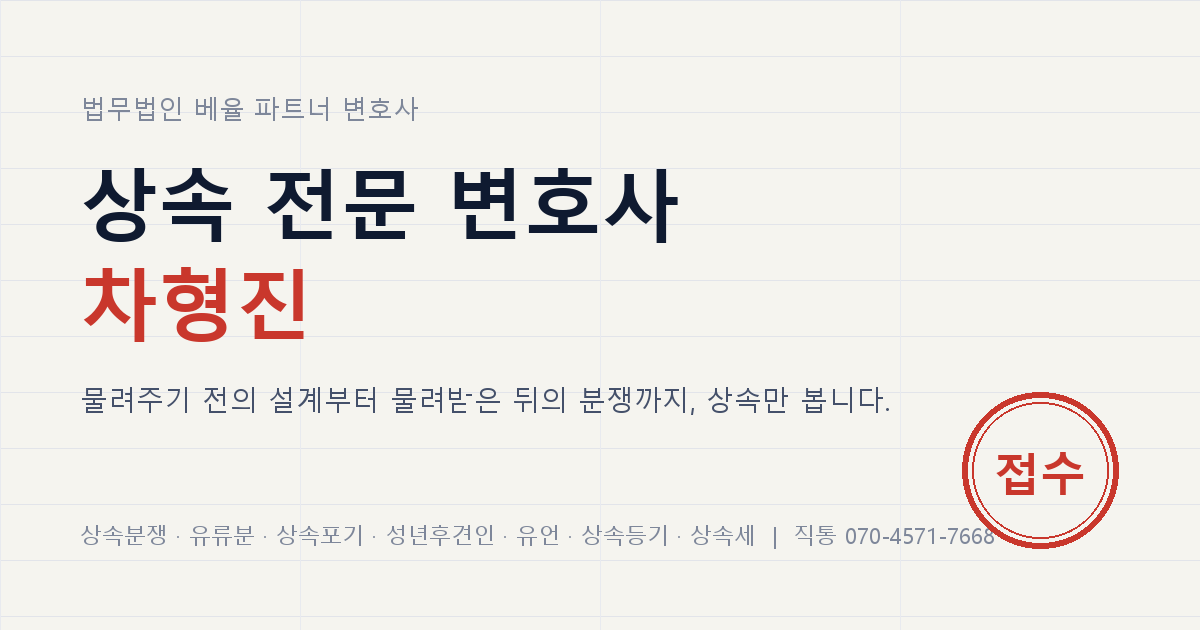
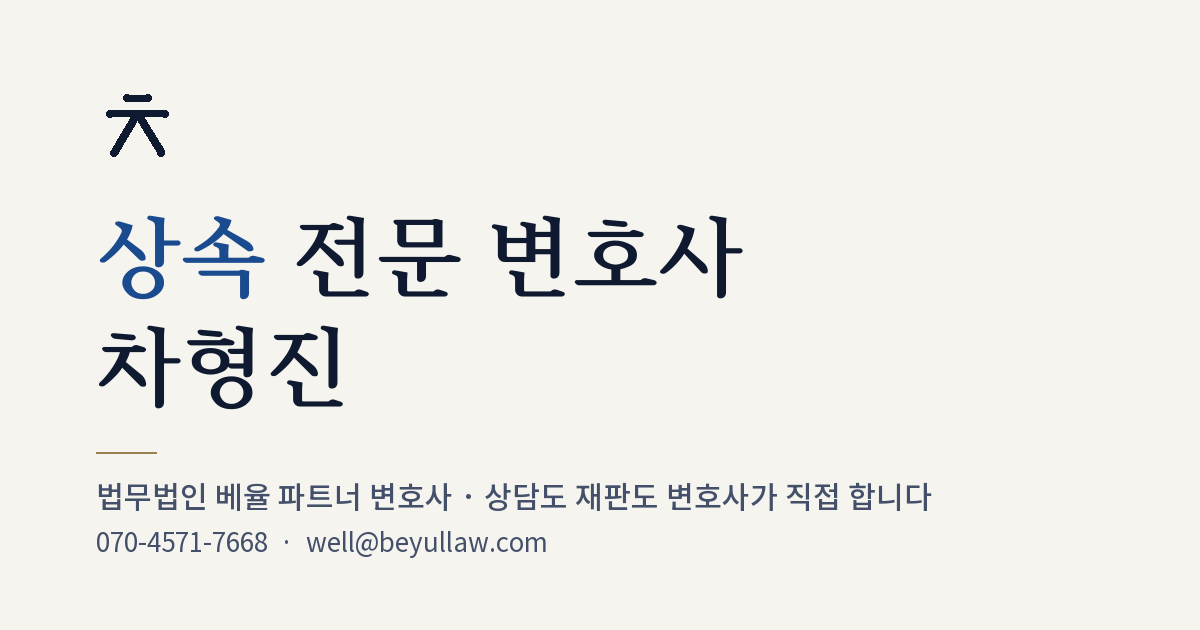
로고·디자인 정리: 빨간 도장 마크를 가는 선 ㅊ 마크로, 인주색을 먹빛 파랑(버튼)+놋쇠 가는 선(라벨·밑줄)으로, 【 】 라벨·접수 도장·그라데이션 띠 제거, 파비콘·OG 이미지 재생성

diff --git a/src/styles/global.css b/src/styles/global.css
@@ -14,10 +14,15 @@
   --ink-3: #7E879A;
   --rule: #CFD3DC;
   --rule-2: #E2E4EA;
-  --seal: #C9372C;
-  --seal-soft: #F8E8E5;
-  --bronze: #8A6A2B;
-  --bronze-soft: #F2ECDC;
+  /* 2026.10.19 인주(빨강) 도장 콘셉트 정리 → 먹빛 파랑 + 놋쇠 가는 선 */
+  --accent: #1B4B8F;
+  --accent-2: #153D77;
+  --brass: #9A7F52;
+  --brass-soft: #F1ECE1;
+  --seal: var(--accent);
+  --seal-soft: #E7EEF9;
+  --bronze: var(--brass);
+  --bronze-soft: var(--brass-soft);
   --focus: #9DB4E8;
   --display: 'Noto Serif KR', 'Nanum Myeongjo', 'Apple SD Gothic Neo', serif;
   --body: 'Pretendard Variable', Pretendard, 'Noto Sans KR', 'Apple SD Gothic Neo', 'Malgun Gothic', sans-serif;
@@ -78,38 +83,38 @@ html.anim .rv.in { opacity: 1; transform: none; }
   text-transform: uppercase;
 }
 .gu {
-  /* 【 갑구 】 식 구(區) 라벨 */
-  font-family: var(--display);
-  font-size: 13px;
-  letter-spacing: 0.22em;
-  color: var(--ink-2);
-  font-weight: 500;
+  /* 구(區) 라벨: 놋쇠 가는 선 + 작은 글자 */
+  font-family: var(--body);
+  font-size: 12px;
+  letter-spacing: 0.18em;
+  color: var(--ink-3);
+  font-weight: 600;
+  display: flex; align-items: center; gap: 10px;
 }
-.gu::before { content: '【 '; color: var(--ink-3); }
-.gu::after { content: ' 】'; color: var(--ink-3); }
-.gu small { font-family: var(--body); letter-spacing: 0.06em; color: var(--ink-3); font-size: 12px; margin-left: 10px; }
+.gu::before { content: ""; display: inline-block; width: 22px; height: 1px; background: var(--brass); flex: none; }
+.gu small { letter-spacing: 0.06em; color: var(--ink-3); font-size: 12px; font-weight: 400; }
 
 .sec { padding-block: clamp(72px, 10vw, 136px); position: relative; }
 .sec + .sec { border-top: 1px solid var(--rule); }
 .sec-head { display: grid; gap: 18px; max-width: 760px; margin-bottom: clamp(36px, 5vw, 64px); }
-.sec-head h2 { font-size: clamp(26px, 3.2vw, 40px); font-weight: 900; line-height: 1.3; }
+.sec-head h2 { font-size: clamp(26px, 3.2vw, 40px); font-weight: 700; line-height: 1.3; }
 .sec-head p { color: var(--ink-2); font-size: 17px; max-width: 38em; line-height: 1.85; }
 .band-ink { background: var(--ink); color: #F2F3F6; }
-.band-ink .gu, .band-ink .gu::before, .band-ink .gu::after { color: #B7C0D6; }
+.band-ink .gu { color: #B7C0D6; }
 .band-ink .sec-head p { color: #C3CAD9; }
 .band-paper { background: var(--paper-2); }
 
 /* ---------- 버튼 ---------- */
 .btn {
   display: inline-flex; align-items: center; justify-content: center; gap: 8px;
-  padding: 14px 22px; border-radius: 3px;
+  padding: 14px 22px; border-radius: 4px;
   font-family: var(--body); font-weight: 600; font-size: 15px; line-height: 1.2;
   text-decoration: none; border: 1px solid transparent; cursor: pointer;
   transition: transform .15s ease, background .15s ease, color .15s ease;
 }
 .btn:hover { transform: translateY(-1px); }
-.btn-seal { background: var(--seal); color: #fff; }
-.btn-seal:hover { background: #B32F25; }
+.btn-seal { background: var(--accent); color: #fff; }
+.btn-seal:hover { background: var(--accent-2); }
 .btn-ink { background: var(--ink); color: #fff; }
 .btn-ghost { background: transparent; color: var(--ink); border-color: var(--ink); }
 .btn-paper { background: var(--paper); color: var(--ink); border-color: var(--rule); }
@@ -119,20 +124,16 @@ html.anim .rv.in { opacity: 1; transform: none; }
 /* ---------- 상단 ---------- */
 .topbar {
   position: sticky; top: env(safe-area-inset-top, 0px); z-index: 50;
-  padding-top: 3px;
+  padding-top: 2px;
   background: rgba(245,244,239,.92); backdrop-filter: saturate(1.2) blur(10px);
   border-bottom: 1px solid var(--rule);
 }
 .topbar .wrap { display: flex; align-items: center; justify-content: space-between; gap: 16px; height: 70px; }
 .brand { display: flex; align-items: center; gap: 12px; text-decoration: none; }
-.brand .seal-mark {
-  width: 34px; height: 34px; border: 2px solid var(--seal); border-radius: 50%;
-  display: grid; place-items: center; color: var(--seal);
-  font-family: var(--display); font-weight: 800; font-size: 14px; letter-spacing: .02em;
-  transform: rotate(-8deg);
-}
+.brand .mark { width: 30px; height: 30px; color: var(--ink); flex: none; }
+.brand .mark path { fill: none; stroke: currentColor; stroke-width: 2.1; stroke-linecap: round; stroke-linejoin: round; }
 .brand .t { display: flex; flex-direction: column; line-height: 1.15; }
-.brand strong { font-family: var(--display); font-size: 20px; font-weight: 700; letter-spacing: .01em; }
+.brand strong { font-family: var(--display); font-size: 20px; font-weight: 600; letter-spacing: .02em; }
 .brand span { font-size: 11px; color: var(--ink-3); letter-spacing: .08em; }
 .nav { display: flex; align-items: center; gap: 24px; }
 .nav a { font-size: 14px; font-weight: 500; color: var(--ink-2); text-decoration: none; padding: 6px 0; border-bottom: 2px solid transparent; }
@@ -169,7 +170,7 @@ html.anim .rv.in { opacity: 1; transform: none; }
 /* ---------- 히어로 ---------- */
 .hero { position: relative; overflow: hidden; padding-block: clamp(56px, 8vw, 104px) clamp(48px, 6vw, 80px); }
 .hero::before {
-  content: ""; position: absolute; inset: 0; pointer-events: none; opacity: .55;
+  content: ""; position: absolute; inset: 0; pointer-events: none; opacity: .35;
   background-image:
     linear-gradient(var(--rule) 1px, transparent 1px),
     linear-gradient(90deg, var(--rule-2) 1px, transparent 1px);
@@ -178,8 +179,8 @@ html.anim .rv.in { opacity: 1; transform: none; }
 }
 .hero .wrap { position: relative; display: grid; gap: clamp(28px, 4vw, 48px); }
 .hero .hero-grid { display: grid; grid-template-columns: minmax(0, 1.1fr) minmax(0, .9fr); gap: clamp(28px, 5vw, 72px); align-items: start; }
-.hero h1 { font-size: clamp(34px, 5.6vw, 80px); font-weight: 900; line-height: 1.2; margin-top: 18px; letter-spacing: -0.02em; max-width: 14em; }
-.hero h1 em { font-style: normal; color: var(--seal); }
+.hero h1 { font-size: clamp(34px, 5.6vw, 80px); font-weight: 800; line-height: 1.2; margin-top: 18px; letter-spacing: -0.02em; max-width: 14em; }
+.hero h1 em { font-style: normal; color: var(--accent); }
 .hero .lead { margin-top: 0; font-size: clamp(16px, 1.4vw, 19px); color: var(--ink-2); max-width: 28em; padding-top: 10px; border-top: 2px solid var(--ink); line-height: 1.9; }
 .hero .cta { display: flex; flex-wrap: wrap; gap: 12px; margin-top: 30px; }
 .hero .direct { margin-top: 18px; font-size: 14px; color: var(--ink-3); }
@@ -205,9 +206,10 @@ html.anim .rise-3 { animation-duration: 1.1s; }
   box-shadow: 0 30px 70px -36px rgba(15,26,48,.45);
   padding: 26px 28px 22px; font-size: 13px; width: 100%; max-width: 480px; justify-self: end;
 }
-.ledger .title { font-family: var(--display); font-weight: 700; font-size: 17px; display: flex; justify-content: space-between; align-items: baseline; border-bottom: 2px solid var(--ink); padding-bottom: 10px; padding-right: 78px; gap: 10px; flex-wrap: wrap; }
+.ledger .title { font-family: var(--display); font-weight: 700; font-size: 17px; display: flex; justify-content: space-between; align-items: baseline; border-bottom: 2px solid var(--ink); padding-bottom: 10px; gap: 10px; flex-wrap: wrap; }
 .ledger .title small { font-family: var(--body); font-weight: 500; font-size: 11px; color: var(--ink-3); letter-spacing: .08em; white-space: nowrap; }
-.ledger .label { font-family: var(--display); font-weight: 700; padding: 14px 6px 4px; font-size: 13px; letter-spacing: .06em; }
+.ledger .label { font-family: var(--display); font-weight: 700; padding: 14px 6px 4px; font-size: 13px; letter-spacing: .06em; display: flex; align-items: baseline; gap: 8px; }
+.ledger .label small { font-family: var(--body); font-weight: 500; font-size: 11px; color: var(--ink-3); letter-spacing: .04em; }
 .ledger table { width: 100%; border-collapse: collapse; font-variant-numeric: tabular-nums; }
 .ledger th { font-weight: 600; color: var(--ink-3); font-size: 11px; letter-spacing: .06em; text-align: left; padding: 8px 6px; border-bottom: 1px solid var(--rule); }
 .ledger td { padding: 10px 6px; border-bottom: 1px solid var(--rule); vertical-align: top; color: var(--ink-2); }
@@ -216,15 +218,6 @@ html.anim .rise-3 { animation-duration: 1.1s; }
 .ledger tr.re td { background: #EEF2FA; }
 .ledger tr.in td { background: var(--bronze-soft); }
 .ledger .caption { margin-top: 12px; color: var(--ink-3); font-size: 12px; line-height: 1.55; }
-.stamp {
-  position: absolute; right: 20px; top: 14px; width: 70px; height: 70px; border-radius: 50%;
-  border: 2.5px solid var(--seal); color: var(--seal); display: grid; place-items: center;
-  font-family: var(--display); font-weight: 800; font-size: 15px; letter-spacing: .08em; line-height: 1.1; text-align: center;
-  transform: rotate(-12deg); mix-blend-mode: multiply; opacity: .9;
-}
-.stamp::after { content: ""; position: absolute; inset: 4px; border: 1px solid var(--seal); border-radius: 50%; opacity: .5; }
-html.anim .stamp.press { animation: press .55s cubic-bezier(.2,.9,.3,1.4) .9s backwards; }
-@keyframes press { from { opacity: 0; transform: rotate(-12deg) scale(1.8); } 70% { opacity: 1; transform: rotate(-12deg) scale(.96); } to { opacity: .9; transform: rotate(-12deg) scale(1); } }
 
 /* ---------- 표제부 (신뢰 띠) ---------- */
 .pyoje { border-top: 1px solid var(--rule); border-bottom: 1px solid var(--rule); background: var(--card); }
@@ -240,7 +233,7 @@ html.anim .stamp.press { animation: press .55s cubic-bezier(.2,.9,.3,1.4) .9s ba
 .axes { display: grid; grid-template-columns: repeat(2, minmax(0, 1fr)); gap: 28px; }
 .axis { background: var(--card); border: 1px solid var(--rule); position: relative; display: grid; align-content: start; }
 .axis-head { padding: 30px 30px 20px; border-bottom: 2px solid var(--ink); display: grid; gap: 6px; }
-.axis-head .n { font-family: var(--display); font-size: 12px; letter-spacing: .2em; color: var(--ink-3); }
+.axis-head .n { font-family: var(--body); font-size: 11.5px; letter-spacing: .2em; color: var(--ink-3); font-weight: 600; }
 .axis-head h3 { font-size: clamp(26px, 2.6vw, 32px); font-weight: 800; }
 .axis-head p { color: var(--ink-2); font-size: 14.5px; }
 .axis.in .axis-head { border-bottom-color: var(--bronze); }
@@ -255,7 +248,7 @@ html.anim .stamp.press { animation: press .55s cubic-bezier(.2,.9,.3,1.4) .9s ba
 .rows summary::-webkit-details-marker { display: none; }
 .rows summary i { font-style: normal; font-family: var(--display); color: var(--ink-3); font-size: 13px; font-variant-numeric: tabular-nums; }
 .rows summary span { color: var(--ink-3); font-weight: 400; font-size: 12.5px; letter-spacing: .04em; }
-.rows summary::after { content: "+"; font-family: var(--display); color: var(--seal); font-size: 20px; line-height: 1; }
+.rows summary::after { content: "+"; font-family: var(--display); color: var(--ink-3); font-size: 20px; line-height: 1; }
 .rows details[open] summary::after { content: "−"; }
 .rows summary:hover { background: var(--paper); }
 .rows .body { padding: 0 30px 18px 72px; color: var(--ink-2); font-size: 14.5px; display: grid; gap: 10px; }
@@ -286,7 +279,7 @@ html.anim .stamp.press { animation: press .55s cubic-bezier(.2,.9,.3,1.4) .9s ba
 .grid2 { display: grid; grid-template-columns: repeat(2, minmax(0, 1fr)); gap: 22px; }
 .grid3 { display: grid; grid-template-columns: repeat(3, minmax(0, 1fr)); gap: 22px; }
 .card { background: var(--card); border: 1px solid var(--rule); padding: 26px 26px 24px; display: grid; gap: 10px; align-content: start; min-width: 0; }
-.card .k { font-family: var(--display); font-size: 12px; letter-spacing: .18em; color: var(--seal); font-weight: 700; }
+.card .k { font-family: var(--body); font-size: 11.5px; letter-spacing: .18em; color: var(--brass); font-weight: 700; }
 .card h3 { font-size: 20px; }
 .card p, .card li { color: var(--ink-2); font-size: 14.5px; }
 .card ul { padding-left: 1.1em; display: grid; gap: 4px; }
@@ -345,7 +338,7 @@ html.anim .stamp.press { animation: press .55s cubic-bezier(.2,.9,.3,1.4) .9s ba
 .faq details:last-child { border-bottom: 1px solid var(--rule); }
 .faq summary { cursor: pointer; list-style: none; padding: 20px 0; font-weight: 600; font-size: 17px; display: flex; justify-content: space-between; gap: 16px; align-items: center; }
 .faq summary::-webkit-details-marker { display: none; }
-.faq summary::after { content: "+"; font-family: var(--display); color: var(--seal); font-size: 22px; flex: none; }
+.faq summary::after { content: "+"; font-family: var(--display); color: var(--ink-3); font-size: 22px; flex: none; }
 .faq details[open] summary::after { content: "−"; }
 .faq .a { padding: 0 0 22px; color: var(--ink-2); font-size: 15px; max-width: 42em; }
 
@@ -359,11 +352,11 @@ html.anim .stamp.press { animation: press .55s cubic-bezier(.2,.9,.3,1.4) .9s ba
 .area-body .main { display: grid; gap: 40px; min-width: 0; }
 .area-body h2 { font-size: 24px; font-weight: 800; margin-bottom: 14px; }
 .area-body .situ { list-style: none; display: grid; gap: 10px; }
-.area-body .situ li { padding: 14px 16px; background: var(--card); border: 1px solid var(--rule); border-left: 3px solid var(--seal); font-size: 15px; }
+.area-body .situ li { padding: 14px 16px; background: var(--card); border: 1px solid var(--rule); border-left: 3px solid var(--brass); font-size: 15px; }
 .area-body.in .situ li { border-left-color: var(--bronze); }
 .steps { list-style: none; display: grid; gap: 0; counter-reset: s; }
 .steps li { display: grid; grid-template-columns: 44px 1fr; gap: 14px; padding: 14px 0; border-top: 1px solid var(--rule-2); counter-increment: s; }
-.steps li::before { content: counter(s, decimal-leading-zero); font-family: var(--display); font-weight: 800; color: var(--seal); font-size: 18px; font-variant-numeric: tabular-nums; padding-top: 2px; }
+.steps li::before { content: counter(s, decimal-leading-zero); font-family: var(--display); font-weight: 700; color: var(--brass); font-size: 18px; font-variant-numeric: tabular-nums; padding-top: 2px; }
 .area-body.in .steps li::before { color: var(--bronze); }
 .steps b { display: block; font-weight: 600; }
 .steps span { font-size: 14.5px; color: var(--ink-2); }
@@ -374,7 +367,7 @@ html.anim .stamp.press { animation: press .55s cubic-bezier(.2,.9,.3,1.4) .9s ba
 @media (max-width: 980px) { .area-body { grid-template-columns: 1fr; } .side { position: static; } }
 .areas-grid { display: grid; grid-template-columns: repeat(3, minmax(0, 1fr)); gap: 18px; }
 .area-card { background: var(--card); border: 1px solid var(--rule); padding: 24px; text-decoration: none; display: grid; gap: 8px; align-content: start; min-width: 0; }
-.area-card .n { font-family: var(--display); font-size: 12px; letter-spacing: .18em; color: var(--ink-3); }
+.area-card .n { font-family: var(--body); font-size: 11.5px; letter-spacing: .18em; color: var(--brass); font-weight: 600; }
 .area-card h3 { font-size: 19px; }
 .area-card p { font-size: 14px; color: var(--ink-2); }
 .area-card:hover { border-color: var(--ink); }
@@ -383,7 +376,7 @@ html.anim .stamp.press { animation: press .55s cubic-bezier(.2,.9,.3,1.4) .9s ba
 /* ---------- 비용 ---------- */
 .principles { display: grid; grid-template-columns: repeat(3, minmax(0, 1fr)); gap: 24px; }
 .principle { background: var(--card); border: 1px solid var(--rule); padding: 30px 28px; display: grid; gap: 12px; align-content: start; }
-.principle .num { font-family: var(--display); font-size: 12px; color: var(--seal); letter-spacing: .2em; font-weight: 800; }
+.principle .num { font-family: var(--body); font-size: 11.5px; color: var(--brass); letter-spacing: .2em; font-weight: 700; }
 .principle h3 { font-size: 21px; }
 .principle p { color: var(--ink-2); font-size: 15px; }
 @media (max-width: 860px) { .principles { grid-template-columns: 1fr; } }
@@ -430,7 +423,7 @@ footer .legal { grid-column: 1 / -1; border-top: 1px solid var(--rule); padding-
 .prose ul, .prose ol { padding-left: 1.2em; margin: 16px 0; display: grid; gap: 8px; }
 .prose a { color: var(--ink); text-decoration-color: var(--seal); text-underline-offset: 3px; }
 .prose img { margin: 28px auto; border: 1px solid var(--rule); border-radius: 2px; }
-.prose blockquote { margin: 28px 0; padding: 16px 22px; border-left: 3px solid var(--seal); background: var(--card); }
+.prose blockquote { margin: 28px 0; padding: 16px 22px; border-left: 3px solid var(--brass); background: var(--card); }
 .prose blockquote p + p { margin-top: .6em; }
 .prose strong { color: var(--ink); font-weight: 600; }
 .prose a, .prose code { overflow-wrap: anywhere; }
@@ -442,14 +435,12 @@ footer .legal { grid-column: 1 / -1; border-top: 1px solid var(--rule); padding-
 .prose td { color: var(--ink-2); }
 .prose table b, .prose table strong { color: var(--ink); }
 .prose table.t-kv th:first-child, .prose table.t-kv td:first-child { width: 32%; font-weight: 600; color: var(--ink); }
-.notice { border-left: 3px solid var(--seal); background: var(--seal-soft); padding: 14px 18px; font-size: 14px; color: var(--ink-2); }
+.notice { border-left: 3px solid var(--brass); background: var(--brass-soft); padding: 14px 18px; font-size: 14px; color: var(--ink-2); }
 .notice.bronze { border-color: var(--bronze); background: var(--bronze-soft); }
 
 /* ---------- 쓰는 느낌·디지털 효과 ---------- */
 /* 상단 띠: 인주→청동→먹 그라데이션 선 */
-.topbar::before { content: ""; position: absolute; left: 0; right: 0; top: 0; height: 3px; background: linear-gradient(90deg, var(--seal), var(--bronze) 50%, var(--ink)); background-size: 200% 100%; }
-html.anim .topbar::before { animation: sheen 9s linear infinite; }
-@keyframes sheen { from { background-position: 0 0; } to { background-position: 200% 0; } }
+.topbar::before { content: ""; position: absolute; left: 0; right: 0; top: 0; height: 2px; background: var(--brass); }
 /* 타이핑 */
 /* 글자는 JS가 순서대로 .on 을 붙여 켠다. 끝(.done)나면 무조건 전부 보인다. */
 html.anim .tw .ch { opacity: 0; transition: opacity .08s linear; }
@@ -465,18 +456,18 @@ html.anim .sec-head.settled h2::after { transform: scaleX(1); transition: none; 
 @keyframes blink { 50% { opacity: 0; } }
 /* 붓 밑줄 */
 .brush { position: relative; display: inline-block; }
-.brush svg { position: absolute; left: -3%; bottom: -.1em; width: 106%; height: .38em; pointer-events: none; overflow: visible; }
-.brush svg path { fill: none; stroke: var(--seal); stroke-width: 8; stroke-linecap: round; opacity: .5; stroke-dasharray: 100; stroke-dashoffset: 100; }
+.brush svg { position: absolute; left: -2%; bottom: -.04em; width: 104%; height: .3em; pointer-events: none; overflow: visible; }
+.brush svg path { fill: none; stroke: var(--brass); stroke-width: 3.5; stroke-linecap: round; opacity: .95; stroke-dasharray: 100; stroke-dashoffset: 100; }
 html.anim .brush.draw svg path { animation: draw 1s cubic-bezier(.3,.6,.3,1) forwards; }
 html:not(.anim) .brush svg path { stroke-dashoffset: 0; }
 @keyframes draw { to { stroke-dashoffset: 0; } }
 /* 섹션 제목: 왼쪽에서 써 내려가고 밑줄이 그어진다 */
 .sec-head h2 { position: relative; padding-bottom: 14px; justify-self: start; }
-.sec-head h2::after { content: ""; position: absolute; left: 0; bottom: 0; height: 3px; width: 72px; background: var(--seal); transform: scaleX(0); transform-origin: left; transition: transform .8s cubic-bezier(.2,.7,.2,1) .4s; }
+.sec-head h2::after { content: ""; position: absolute; left: 0; bottom: 0; height: 2px; width: 44px; background: var(--brass); transform: scaleX(0); transform-origin: left; transition: transform .8s cubic-bezier(.2,.7,.2,1) .4s; }
 html.anim .sec-head h2 { clip-path: inset(-10% 100% -10% 0); transition: clip-path .9s cubic-bezier(.2,.7,.2,1) .1s; }
 html.anim .sec-head.in h2 { clip-path: inset(-10% -3% -10% 0); }
 html.anim .sec-head.in h2::after, html:not(.anim) .sec-head h2::after { transform: scaleX(1); }
-.band-ink .sec-head h2::after { background: #E0574A; }
+.band-ink .sec-head h2::after { background: var(--brass); }
 /* 버튼 광택 */
 .btn { position: relative; overflow: hidden; }
 .btn::after { content: ""; position: absolute; top: 0; left: -70%; width: 45%; height: 100%; background: linear-gradient(100deg, transparent, rgba(255,255,255,.4), transparent); transform: skewX(-20deg); transition: left .55s ease; pointer-events: none; }
@@ -484,7 +475,7 @@ html.anim .sec-head.in h2::after, html:not(.anim) .sec-head h2::after { transfor
 /* 히어로 괘선이 천천히 흐른다 */
 html.anim .hero::before { animation: drift 36s linear infinite; }
 @keyframes drift { from { background-position: 0 0, 0 0; } to { background-position: 0 56px, 25% 0; } }
-/* 등기부 행이 차례로 기입되고, 마지막에 도장이 찍힌다 */
+/* 등기부 행이 차례로 기입된다 */
 html.anim .ledger tbody tr { opacity: 0; transform: translateX(-10px); animation: rowIn .45s ease-out forwards; }
 html.anim .ledger tbody tr:nth-child(1) { animation-delay: .8s; }
 html.anim .ledger tbody tr:nth-child(2) { animation-delay: 1.1s; }
@@ -492,8 +483,6 @@ html.anim .ledger tbody tr:nth-child(3) { animation-delay: 1.4s; }
 html.anim .ledger tbody tr:nth-child(4) { animation-delay: 1.7s; }
 @keyframes rowIn { to { opacity: 1; transform: none; } }
 html.anim .ledger tbody tr.on, html.ledger-done .ledger tbody tr { opacity: 1; transform: none; animation: none; }
-html.anim .stamp.press { animation-delay: 2.3s; }
-html.ledger-done .stamp, html.anim.ledger-done .stamp.press { opacity: .9; transform: rotate(-12deg); animation: none; }
 /* 카드 위쪽 인주 선이 그어진다 */
 .card, .area-card, .principle, .press { position: relative; }
 .card::before, .area-card::before, .principle::before, .press::before { content: ""; position: absolute; top: -1px; left: 0; width: 0; height: 3px; background: var(--seal); transition: width .5s cubic-bezier(.2,.7,.2,1); }
@@ -556,7 +545,6 @@ html.anim .phases .phase li.rv.in { transform: none; }
   .ledger th:nth-child(n+3), .ledger td:nth-child(n+3) { white-space: nowrap; }
   .ledger td[colspan] { white-space: normal; }
   .ledger .caption { font-size: 12px; }
-  .stamp { width: 58px; height: 58px; font-size: 13px; right: 12px; top: 10px; }
 
   /* 표제부 */
   .pyoje .wrap { grid-template-columns: repeat(2, minmax(0, 1fr)); }
@@ -722,7 +710,7 @@ html.anim .phases .phase li.rv.in { transform: none; }
 
 @media (prefers-reduced-motion: reduce) {
   html { scroll-behavior: auto; }
-  html.anim .rise, html.anim .rise-2, html.anim .rise-3, html.anim .stamp.press { animation: none; }
+  html.anim .rise, html.anim .rise-2, html.anim .rise-3 { animation: none; }
   html.anim .rv { opacity: 1; transform: none; transition: none; }
   .card, .post, .press, .area-card, .principle { transition: none; }
   html.anim .tw .ch { transition: none; opacity: 1; }

diff --git a/scripts/make_og.py b/scripts/make_og.py
@@ -1,0 +1,54 @@
+# OG 이미지(1200×630) 생성. 로고 마크 + '상속 전문 변호사 차형진'. 실행: python -X utf8 scripts/make_og.py
+from PIL import Image, ImageDraw, ImageFont
+import os
+
+W, H = 1200, 630
+PAPER, INK, INK2, ACCENT, BRASS = '#F5F4EF', '#0F1A30', '#44506A', '#1B4B8F', '#9A7F52'
+FONTS = r'C:\Windows\Fonts'
+serif = os.path.join(FONTS, 'HANBatangB.ttf')
+sans = os.path.join(FONTS, 'NotoSansKR-VF.ttf')
+
+def font(path, size, variation=None):
+    f = ImageFont.truetype(path, size)
+    if variation:
+        try:
+            f.set_variation_by_name(variation)
+        except Exception:
+            pass
+    return f
+
+img = Image.new('RGB', (W, H), PAPER)
+d = ImageDraw.Draw(img)
+
+# 마크(ㅊ 세 획): 32 단위 좌표를 scale 배로
+def mark(x, y, scale, color, width):
+    def seg(a, b):
+        p = (x + a[0] * scale, y + a[1] * scale, x + b[0] * scale, y + b[1] * scale)
+        d.line(p, fill=color, width=width)
+        r = width / 2
+        for cx, cy in ((p[0], p[1]), (p[2], p[3])):
+            d.ellipse((cx - r, cy - r, cx + r, cy + r), fill=color)
+    seg((12, 5.5), (20, 5.5))
+    seg((5.5, 11.5), (26.5, 11.5))
+    seg((16, 11.5), (7, 26.5))
+    seg((16, 11.5), (25, 26.5))
+
+mark(96, 84, 2.6, INK, 7)
+
+# 제목
+t1 = font(serif, 88)
+d.text((96, 190), '상속', font=t1, fill=ACCENT)
+w = d.textlength('상속 ', font=t1)
+d.text((96 + w, 190), '전문 변호사', font=t1, fill=INK)
+d.text((96, 300), '차형진', font=t1, fill=INK)
+
+# 놋쇠 가는 선 + 보조 문구
+d.line((96, 452, 156, 452), fill=BRASS, width=2)
+s1 = font(sans, 30, 'Medium')
+s2 = font(sans, 26, 'Regular')
+d.text((96, 478), '법무법인 베율 파트너 변호사 · 상담도 재판도 변호사가 직접 합니다', font=s1, fill=INK2)
+d.text((96, 526), '070-4571-7668  ·  well@beyullaw.com', font=s2, fill=INK2)
+
+out = os.path.join(os.path.dirname(os.path.dirname(os.path.abspath(__file__))), 'public', 'og.png')
+img.save(out, optimize=True)
+print('saved', out, os.path.getsize(out))
